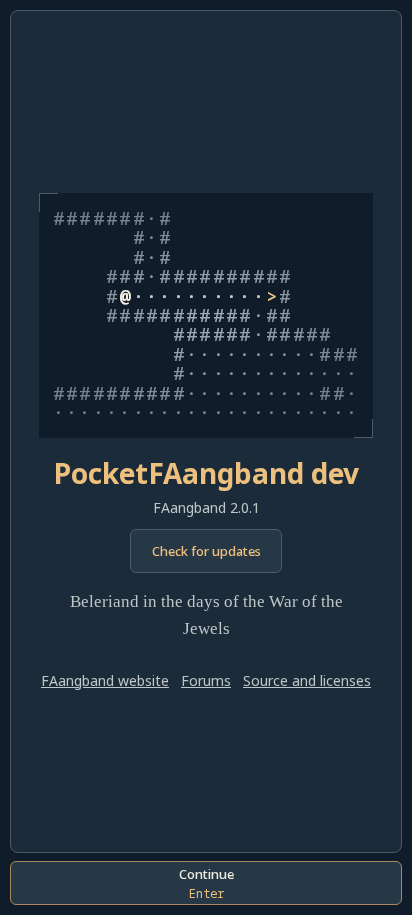
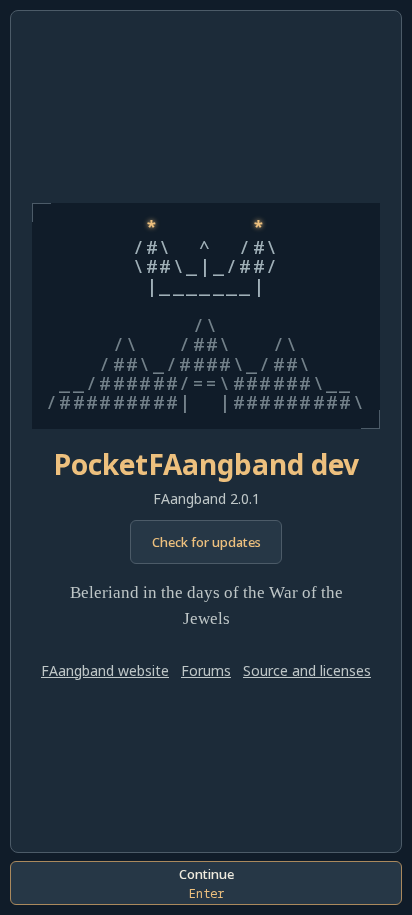
feat: update welcome screen

diff --git a/web/style.css b/web/style.css
@@ -493,36 +493,34 @@ dt { color: var(--muted); }
     padding: 1rem;
     text-align: center;
 }
-.splash-map {
+.splash-crown {
     position: relative;
     margin: auto 0 0;
     padding: 0.875em 0.75em;
     background: var(--page);
+    color: var(--wall);
     font: 500 min(1.125rem, 5.25cqi)/1.08 var(--mono);
     font-variant-ligatures: none;
     letter-spacing: 0.13em;
-    text-align: left;
+    text-align: center;
 }
-.splash-map::before, .splash-map::after {
+.splash-crown::before, .splash-crown::after {
     position: absolute;
     width: 1em;
     height: 1em;
     border: solid var(--border);
     content: "";
 }
-.splash-map::before { inset: 0 auto auto 0; border-width: 1px 0 0 1px; }
-.splash-map::after { inset: auto 0 0 auto; border-width: 0 1px 1px 0; }
-.splash-map-art {
-    display: block;
-    background: radial-gradient(ellipse, var(--wall), var(--floor) 74%);
-    background-clip: text;
-    color: transparent;
+.splash-crown::before { inset: 0 auto auto 0; border-width: 1px 0 0 1px; }
+.splash-crown::after { inset: auto 0 0 auto; border-width: 0 1px 1px 0; }
+.splash-crown b {
+    color: var(--accent);
+    font-weight: 700;
+    text-shadow: 0 0 0.3em currentColor;
 }
-.splash-map-player, .white-glyph { color: var(--white-symbol); background-color: var(--white-cell); }
+.white-glyph { color: var(--white-symbol); background-color: var(--white-cell); }
 .floor-glyph { color: var(--floor); }
 .wall-glyph { color: var(--wall); }
-.splash-map-path { color: var(--muted); }
-.splash-map-stairs { color: var(--accent); }
 #splash-screen h3 { margin: 0; color: var(--accent); font-size: 1.75rem; }
 .splash-subtitle { margin-block-start: 0.375rem; color: var(--muted); font-size: 0.875rem; }
 #update-app {

diff --git a/web/index.html b/web/index.html
@@ -46,17 +46,16 @@
                 <pre id="terminal"></pre>
             </div>
             <section id="splash-screen" class="menu-screen" aria-labelledby="view-title" hidden>
-                <pre class="splash-map" aria-hidden="true"><span class="splash-map-art">#######·#
-      #·#
-      #·#
-    ###·##########
-    #<span class="splash-map-player">@</span><span class="splash-map-path">··········</span><span class="splash-map-stairs">&gt;</span>#
-    ###########·##
-         ######·#####
-         #··········###
-         #·············
-##########··········##·
-·······················</span></pre>
+                <pre class="splash-crown" role="img" aria-label="Morgoth's iron crown with two Silmarils above Thangorodrim. The gates of Angband lie beneath the middle peak."><b>*</b>       <b>*</b>
+/#\  ^  /#\
+\##\_|_/##/
+|_______|
+
+<span class="floor-glyph">/\
+/\   /##\   /\
+/##\_/####\_/##\
+__/######/==\######\__
+/#########|  |#########\</span></pre>
                 <div>
                     <h3>PocketFAangband __POCKETFAANGBAND_VERSION__</h3>
                     <p class="splash-subtitle">FAangband <span id="angband-version"></span></p>

diff --git a/README.md b/README.md
@@ -5,7 +5,7 @@ PocketFAangband brings First Age Angband, a single-player roguelike set in Tolki
 The game runs in your browser. Play in portrait with touch controls and choose between classic ASCII and graphical tiles. After the first download, you can play offline.
 
 <p>
-  <a href="screenshots/hello.png"><img src="screenshots/hello.png" width="280" alt="PocketFAangband welcome screen in the dark Atlas theme"></a>
+  <a href="screenshots/hello.png"><img src="screenshots/hello.png" width="280" alt="Welcome screen in the dark Atlas theme. Morgoth’s crown and two glowing Silmarils rise above the three peaks of Thangorodrim, with the gates of Angband below."></a>
   <a href="screenshots/ascii.png"><img src="screenshots/ascii.png" width="280" alt="Explore finds copper in Eriador South. The same ASCII map is shown in the light and dark Atlas themes."></a>
 </p>
 
